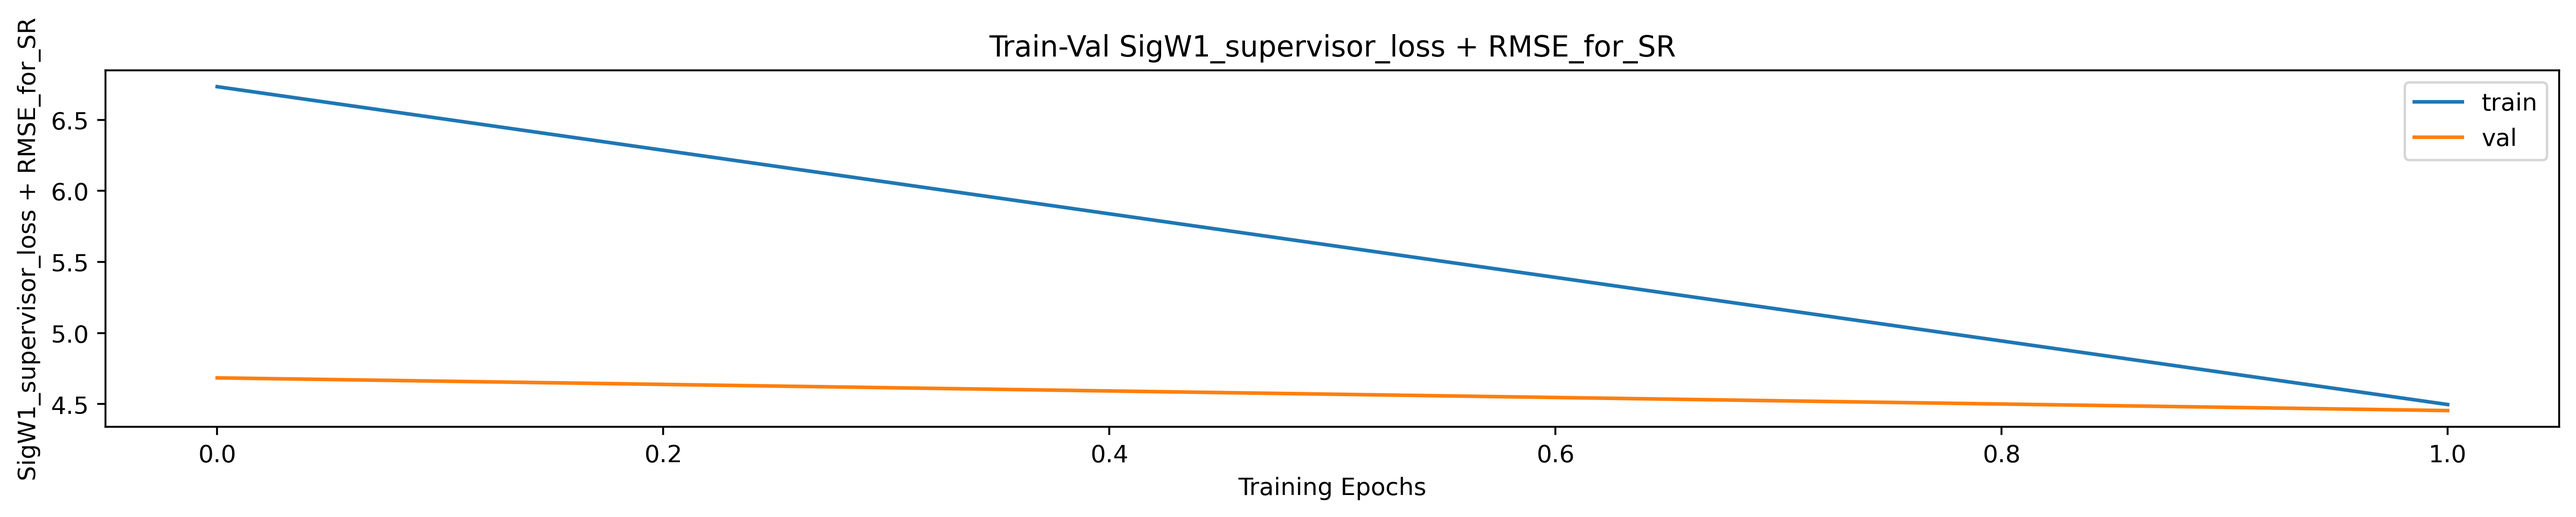
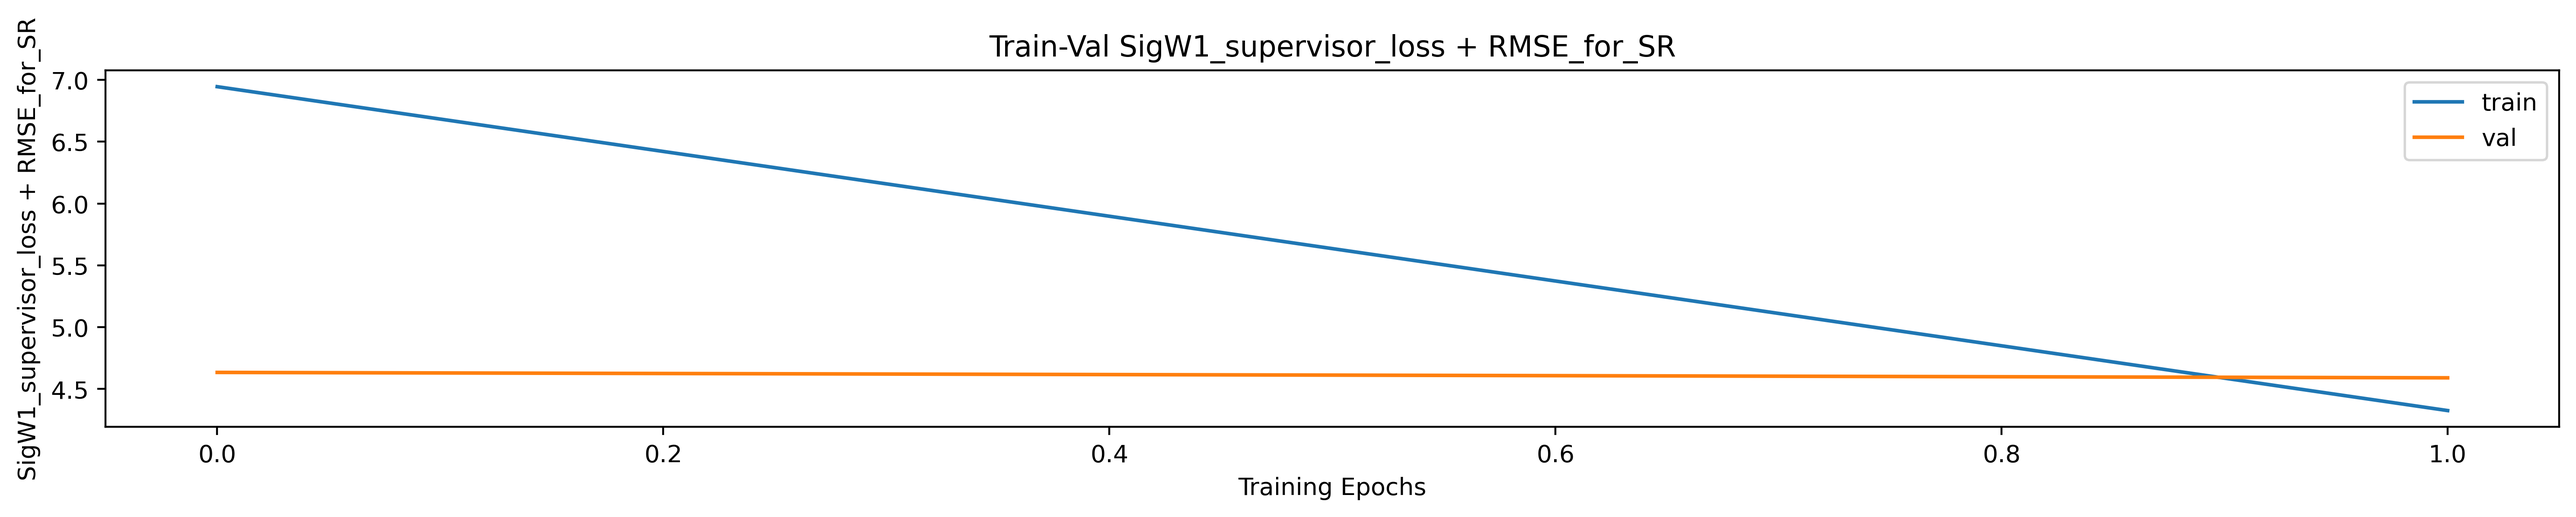
.

diff --git a/GENERATION/T4sigWGAN/models/models.py b/GENERATION/T4sigWGAN/models/models.py
@@ -47,8 +47,8 @@ class T4sigWGAN(nn.Module):
                 fake_score = self.criterion(gen_PNL_validity, PNL)
                 real_score = self.criterion(PNL_validity, PNL)
 
-                loss_G = fake_score / 100000 + loss_u
-                loss_D = (real_score - fake_score) / 100000
+                loss_G = fake_score / 1000000 + loss_u
+                loss_D = (real_score - fake_score) / 1000000
                 loss_SR = loss_s + loss_r
 
                 return x_hat, loss_G, loss_D, loss_SR

diff --git a/GENERATION/T4sigWGAN/parser.py b/GENERATION/T4sigWGAN/parser.py
@@ -7,7 +7,7 @@ from .utils.augmentations import parse_augmentations
 parser = argparse.ArgumentParser()
 
 # initial setting
-parser.add_argument("--epochs", type=int, default=2, help="number of epochs")
+parser.add_argument("--epochs", type=int, default=10, help="number of epochs")
 parser.add_argument("--device", default=torch.device('cuda' if torch.cuda.is_available() else 'cpu'))
 
 # log location
